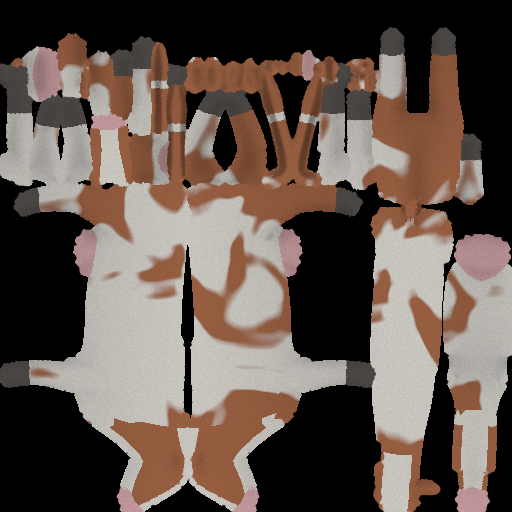
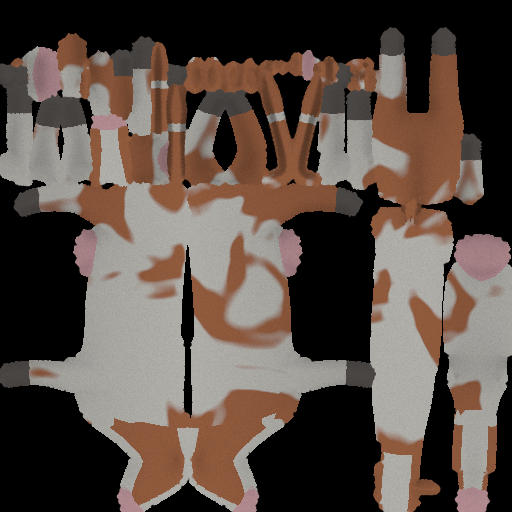
Cow: white coat at the brightness of the brown one
Valheim's morning sun still made the white coat bloom at 0.62.

diff --git a/tools/cow/bake_cow.py b/tools/cow/bake_cow.py
@@ -20,12 +20,12 @@ size = int(args[2]) if len(args) > 2 else 512
 
 COATS = {
     # name: (base coat, patches)
-    # Valheim's sun is bright: a white coat above ~0.65 blooms like a lamp.
-    "schwarzbunt": ((0.62, 0.60, 0.56), (0.035, 0.032, 0.032)),
-    "rotbunt": ((0.62, 0.60, 0.56), (0.33, 0.12, 0.055)),
+    # Valheim's sun is bright: a white coat above ~0.5 blooms like a lamp (the brown coat at 0.4 looks right).
+    "schwarzbunt": ((0.46, 0.45, 0.42), (0.035, 0.032, 0.032)),
+    "rotbunt": ((0.46, 0.45, 0.42), (0.30, 0.11, 0.05)),
     "braun": ((0.40, 0.27, 0.17), (0.30, 0.19, 0.11)),
 }
-PINK = (0.58, 0.34, 0.36)
+PINK = (0.48, 0.28, 0.30)
 HOOF = (0.09, 0.08, 0.075)
 
 arm = bpy.data.objects["Armature"]
